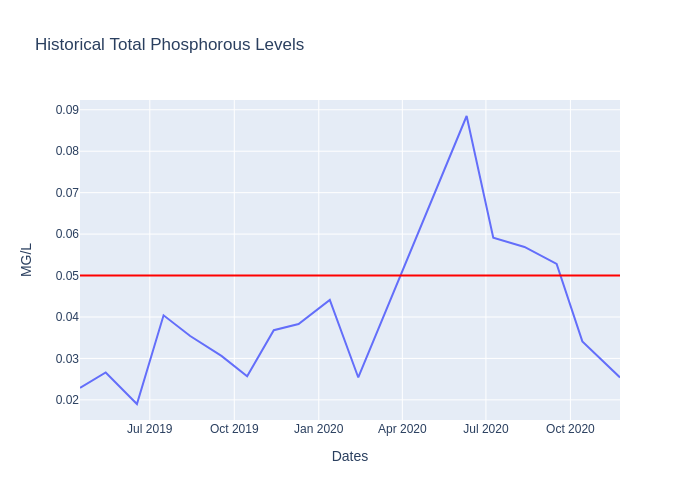
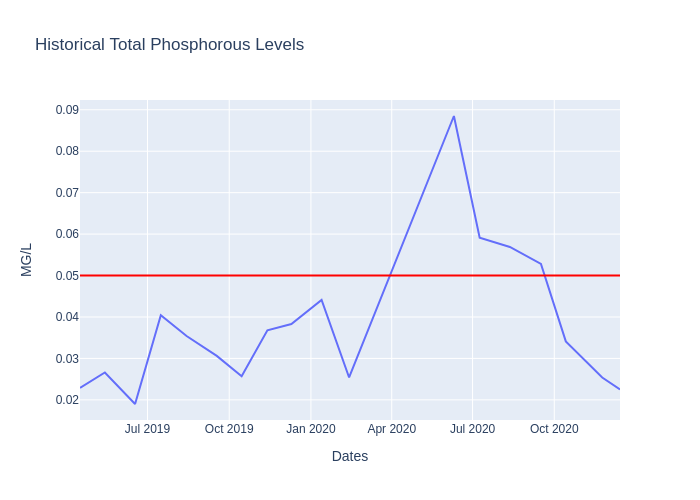
Deploy IzzyFad/NorthropGrumman-HIP to github.com/IzzyFad/NorthropGrumman-HIP.git:gh-pages

diff --git a/docs/index.html b/docs/index.html
@@ -49,11 +49,11 @@
     <div id="levels">
       <div id="left-side">
           <p> CURRENT* LEVELS: </p>
-          <p> <span class="highlight"> PHOSPHATE LEVELS </span>  0.0254 mg/L </p>
-          <p> <span class="highlight"> TURBIDITY </span> 1.4 Meters  </p>
-          <p> <span class="highlight"> OXYGEN LEVELS </span>  9.5 mg/L </p>
-          <p> <span class="highlight"> NITRATE LEVELS </span>  0.525 mg/L  </p>
-          <p> <span class="highlight"> WATER TEMPERATURE </span> 11.7 &deg;C </p>
+          <p> <span class="highlight"> PHOSPHATE LEVELS </span>  0.0225 mg/L </p>
+          <p> <span class="highlight"> TURBIDITY </span> 1.8 Meters  </p>
+          <p> <span class="highlight"> OXYGEN LEVELS </span>  10.3 mg/L </p>
+          <p> <span class="highlight"> NITRATE LEVELS </span>  0.561 mg/L  </p>
+          <p> <span class="highlight"> WATER TEMPERATURE </span> 8.2 &deg;C </p>
         </div>
         <div id="right-side">
           <p> Barriers/Max Levels: </p>
@@ -64,7 +64,7 @@
         </div>
       </div>
     <div id="updated-as-of">
-      <p> *UPDATED AS OF  04-08-2021 <br />
+      <p> *UPDATED AS OF  04-15-2021 <br />
           SEE ABOUT PAGE FOR INFORMATION ON DATA SOURCE
       </p>
       <div id="disclaimer">

diff --git a/docs/phosphate.html b/docs/phosphate.html
@@ -56,10 +56,10 @@
       <div id="updated-value">
         <h1> <span class="highlight-alt"> &nbsp; MOST RECENT DATA VALUE: &nbsp; </span> </h1>
         <div id="placeholder-value">
-          <h1> 0.0254 mg/L </h1>
+          <h1> 0.0225 mg/L </h1>
         </div>
         <div id="placeholder-value">
-          <h1> 2020-11-24 </h1>
+          <h1> 2020-12-14 </h1>
         </div>
       </div>
     </div>

diff --git a/docs/watertemp.html b/docs/watertemp.html
@@ -53,10 +53,10 @@
       <div id="updated-value">
         <h1> <span class="highlight-alt"> &nbsp; MOST RECENT DATA VALUE: &nbsp; </span> </h1>
         <div id="placeholder-value">
-          <h1> 11.7 &deg;C </h1>
+          <h1> 8.2 &deg;C </h1>
         </div>
         <div id="placeholder-value">
-          <h1> 2020-11-24 </h1>
+          <h1> 2020-12-14 </h1>
         </div>
       </div>
     </div>

diff --git a/docs/nitrate.html b/docs/nitrate.html
@@ -55,10 +55,10 @@
       <div id="updated-value">
         <h1> <span class="highlight-alt"> &nbsp; MOST RECENT DATA VALUE: &nbsp; </span> </h1>
         <div id="placeholder-value">
-          <h1> 0.525 mg/L </h1>
+          <h1> 0.561 mg/L </h1>
         </div>
         <div id="placeholder-value">
-          <h1> 2020-11-24 </h1>
+          <h1> 2020-12-14 </h1>
         </div>
       </div>
     </div>

diff --git a/docs/turbidity.html b/docs/turbidity.html
@@ -56,10 +56,10 @@
       <div id="updated-value">
         <h1> <span class="highlight-alt"> &nbsp; MOST RECENT DATA VALUE: &nbsp; </span> </h1>
         <div id="placeholder-value">
-          <h1> 1.4 Meters </h1>
+          <h1> 1.8 Meters </h1>
         </div>
         <div id="placeholder-value">
-          <h1> 2020-11-24 </h1>
+          <h1> 2020-12-14 </h1>
         </div>
       </div>
     </div>

diff --git a/docs/oxygen.html b/docs/oxygen.html
@@ -56,10 +56,10 @@
       <div id="updated-value">
         <h1> <span class="highlight-alt"> &nbsp; MOST RECENT DATA VALUE: &nbsp; </span> </h1>
         <div id="placeholder-value">
-          <h1> 9.5 mg/L </h1>
+          <h1> 10.3 mg/L </h1>
         </div>
         <div id="placeholder-value">
-          <h1> 2020-11-24 </h1>
+          <h1> 2020-12-14 </h1>
         </div>
       </div>
     </div>
